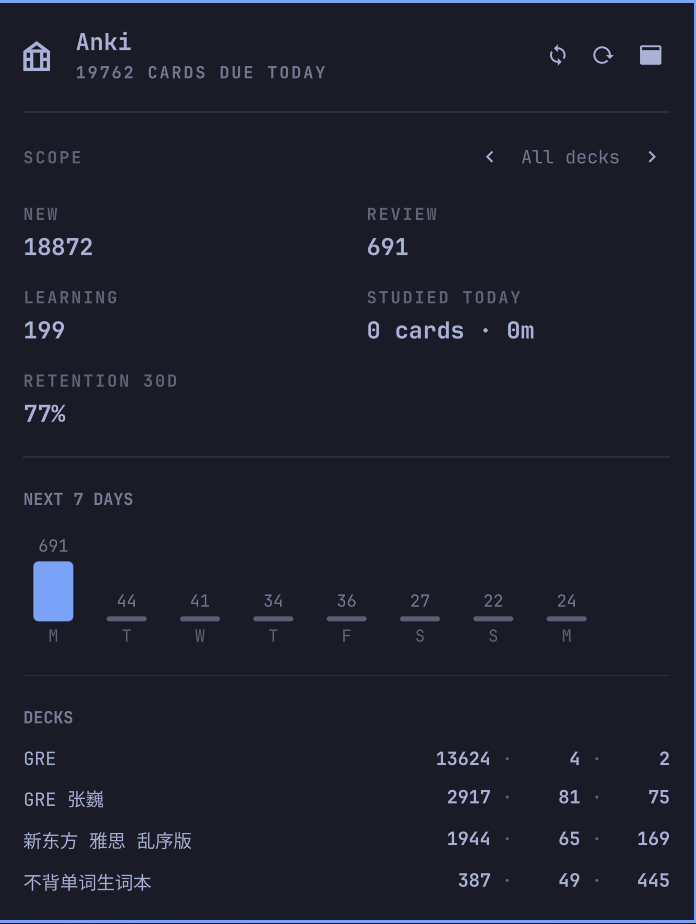
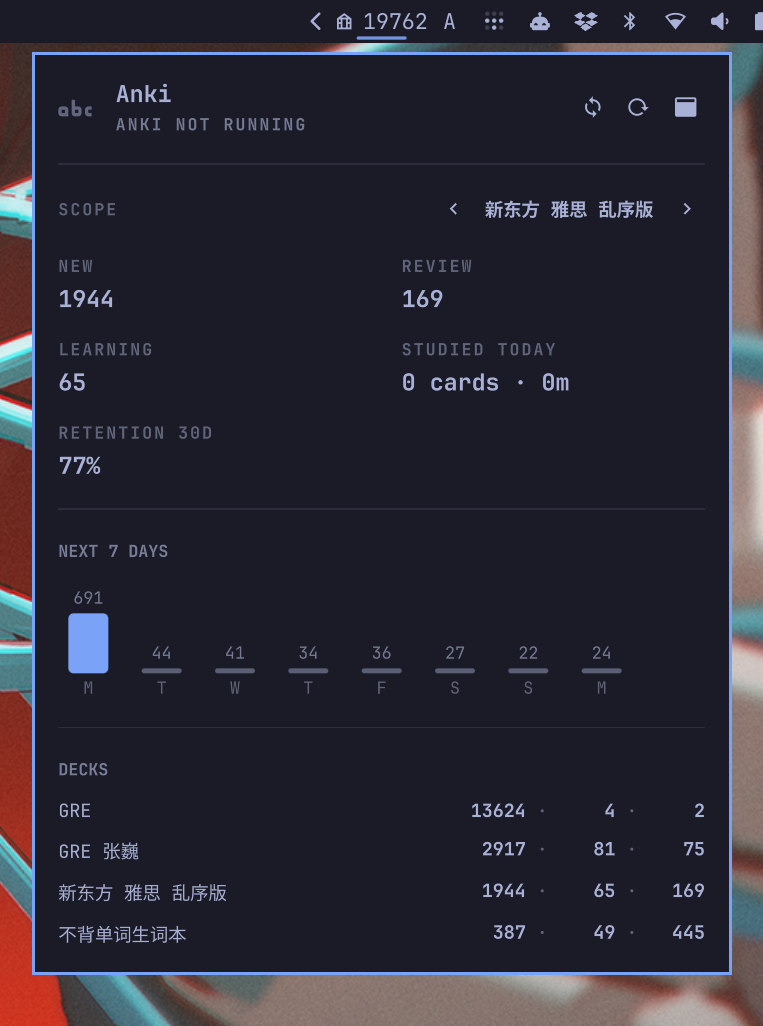
Update README

diff --git a/README.md b/README.md
@@ -17,10 +17,10 @@ then `omarchy-shell shell rescanPlugins` and `omarchy plugin enable aronnax.anki
 
 ## What it shows
 
-- **Bar pill** — ` <due>` with the total cards due today. Hides itself when
+- **Bar pill** — The total cards due today. Hides itself when
   nothing is due.
-- **Hero** — card count status; trailing buttons for sync (), refresh (),
-  and opening Anki ().
+- **Hero** — card count status; trailing buttons for sync, refresh,
+  and opening Anki.
 - **Today's queues** — a scope picker for all decks or one top-level deck;
   new / learning / review, cards studied today with time, and 30-day mature
   retention update for that scope.
